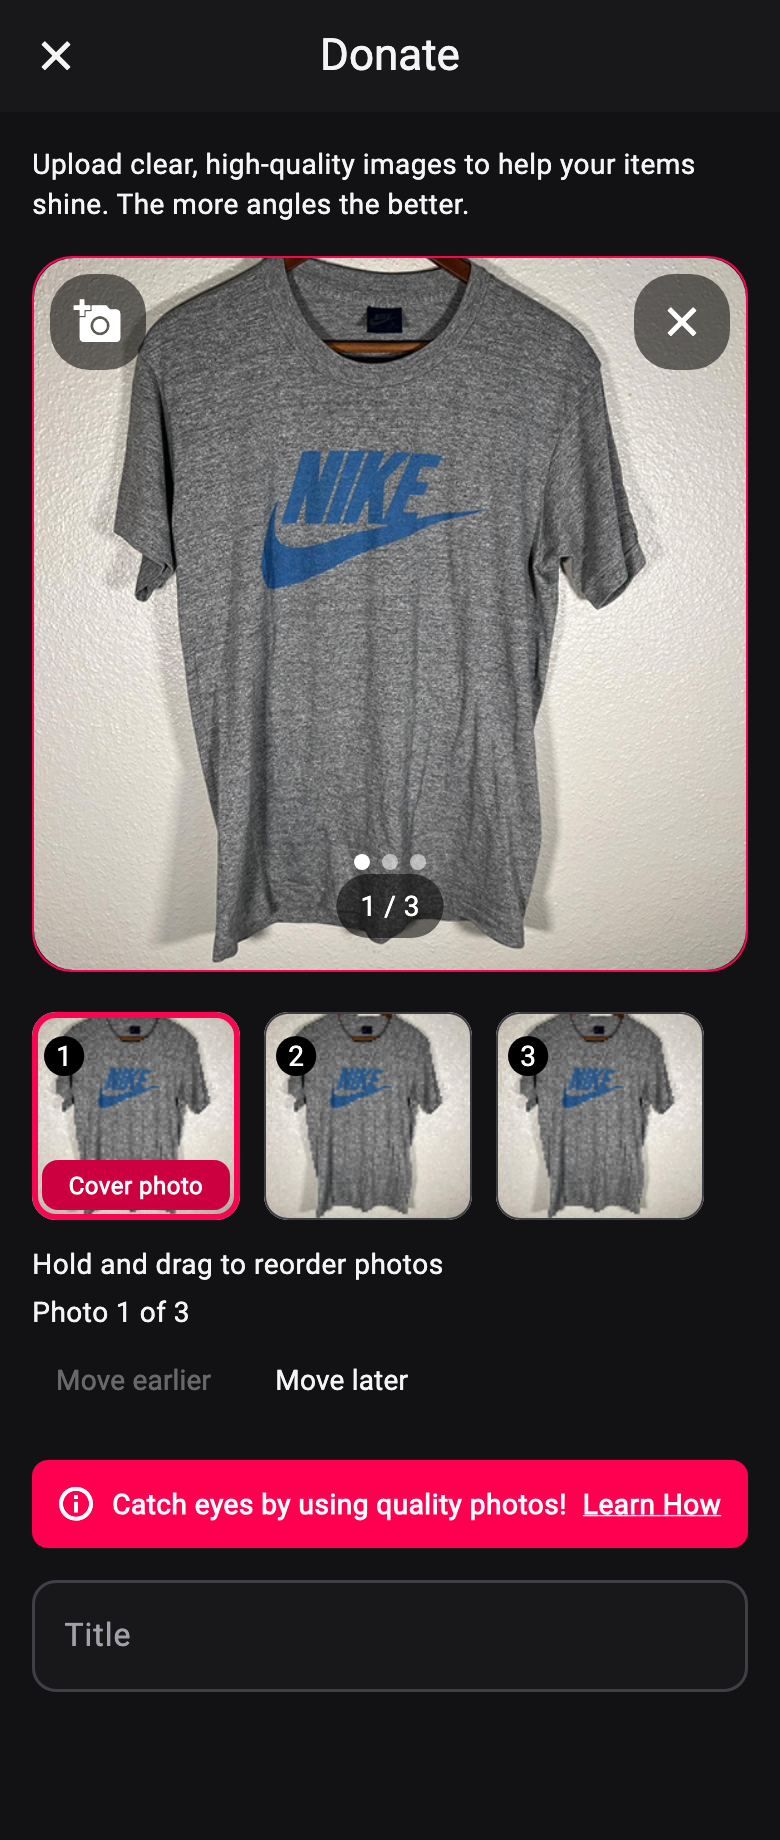
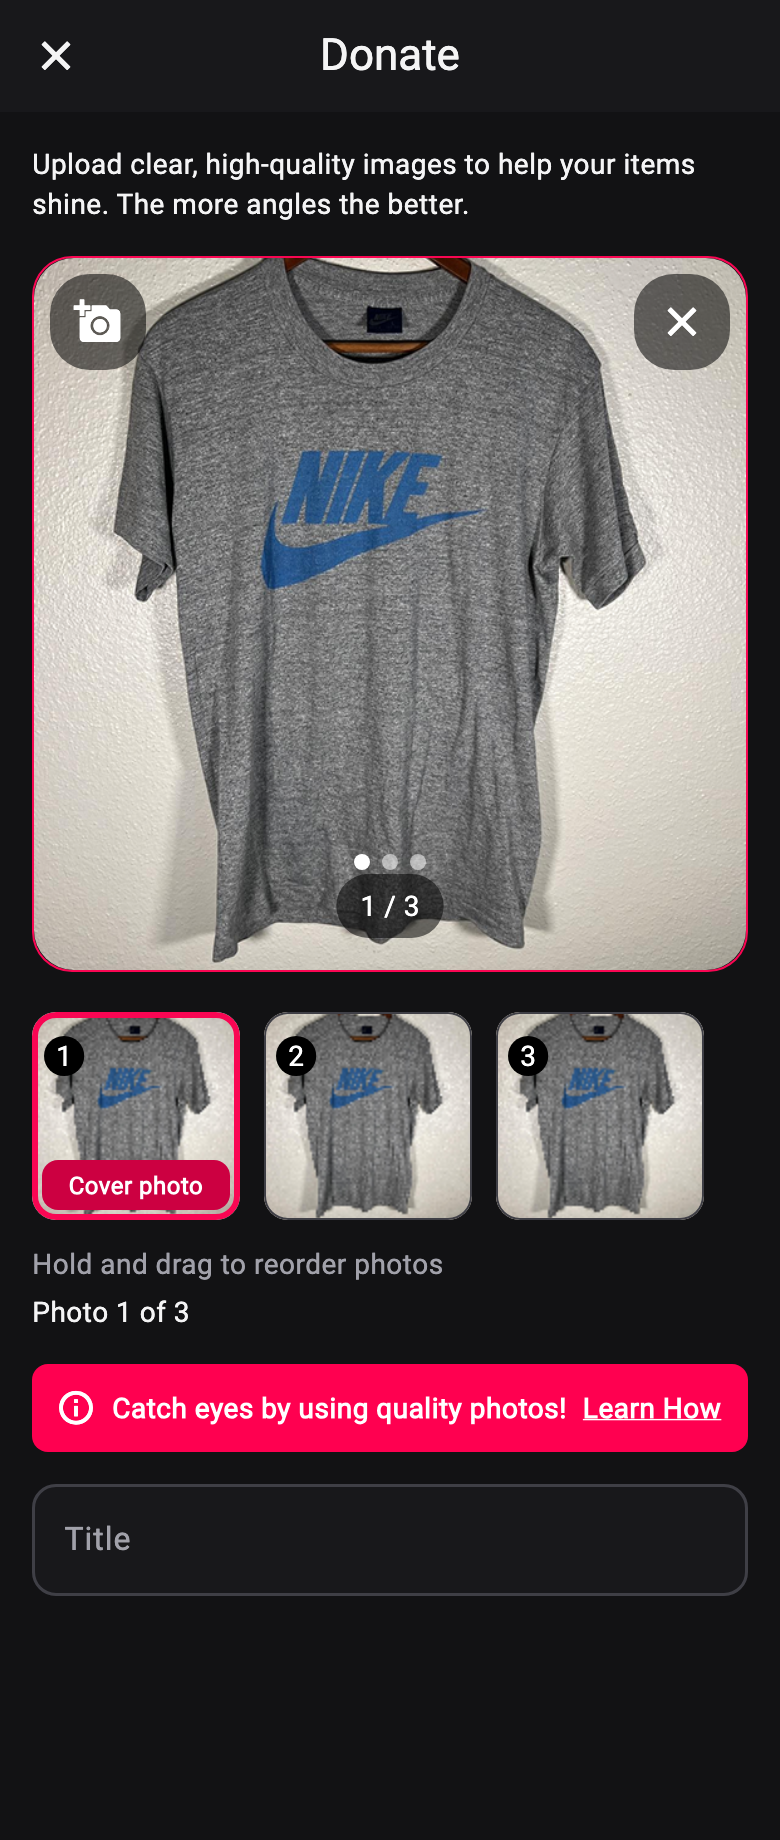
Remove visible photo movement buttons and mute the reorder hint
Simplify the Donate photo strip by removing Move earlier / Move later
buttons and using the theme's grey onSurfaceVariant colour for the hint.
Native screen-reader reorder actions remain available on each thumbnail.
Refresh the light/dark previews and QA notes for the final interface.

This is a UI-only follow-up with test and documentation changes. All 13
feature tests pass, including native semantics actions and AA text contrast.
Focused analysis, safe logging and diff checks pass. The full suite was not
rerun for this follow-up; physical device checks remain outstanding.

Changed region(s): [[0.0308, 0.7435, 0.9846, 0.8984], [0.0615, 0.6815, 0.3077, 0.7125], [0.3385, 0.6815, 0.5538, 0.7125]]

diff --git a/test/photo_upload_test.dart b/test/photo_upload_test.dart
@@ -1,12 +1,15 @@
 import 'dart:io';
 
 import 'package:cherry_mvp/core/config/app_strings.dart';
+import 'package:cherry_mvp/core/config/app_theme.dart';
 import 'package:cherry_mvp/features/donation/widgets/photo_reorder_strip.dart';
 import 'package:cherry_mvp/features/donation/widgets/photo_upload.dart';
 import 'package:flutter/material.dart';
 import 'package:flutter/services.dart';
 import 'package:flutter_test/flutter_test.dart';
 import 'package:image_picker/image_picker.dart';
+
+import 'support/photo_reorder_actions.dart';
 
 void main() {
   TestWidgetsFlutterBinding.ensureInitialized();
@@ -58,7 +61,7 @@ void main() {
     });
     await tester.pumpWidget(
       MaterialApp(
-        theme: ThemeData(brightness: brightness),
+        theme: buildTheme(brightness),
         builder: (context, child) => MediaQuery(
           data: MediaQuery.of(context).copyWith(textScaler: TextScaler.linear(textScale)),
           child: child!,
@@ -107,20 +110,21 @@ void main() {
     await tester.pumpAndSettle();
   }
 
-  testWidgets('tap previews, accessible controls reorder, and callback snapshots retain their order', (tester) async {
+  testWidgets('tap previews, screen-reader actions reorder, and callback snapshots retain their order', (tester) async {
     await pump(tester);
     expectPreview(tester, 0, 0);
-    expect(tester.widget<TextButton>(find.widgetWithText(TextButton, AppStrings.movePhotoEarlier)).onPressed, isNull);
+    expect(find.text('Move earlier'), findsNothing);
+    expect(find.text('Move later'), findsNothing);
     await tester.tap(thumbnail(2));
     await tester.pumpAndSettle();
     expectPreview(tester, 2, 2);
-    expect(tester.widget<TextButton>(find.widgetWithText(TextButton, AppStrings.movePhotoLater)).onPressed, isNull);
-    await tester.tap(find.text(AppStrings.movePhotoEarlier));
+
+    await moveSelectedPhoto(tester, earlier: true);
     await tester.pumpAndSettle();
     expect(paths(changes.last), paths([photos[0], photos[2], photos[1]]));
     expectPreview(tester, 2, 1);
     final firstChange = changes.single;
-    await tester.tap(find.text(AppStrings.movePhotoEarlier));
+    await moveSelectedPhoto(tester, earlier: true);
     await tester.pumpAndSettle();
     expect(paths(changes.last), paths([photos[2], photos[0], photos[1]]));
     expect(paths(firstChange), paths([photos[0], photos[2], photos[1]]));
@@ -144,7 +148,7 @@ void main() {
     await pump(tester);
     await tester.tap(thumbnail(2));
     await tester.pumpAndSettle();
-    await tester.tap(find.text(AppStrings.movePhotoEarlier));
+    await moveSelectedPhoto(tester, earlier: true);
     await tester.pumpAndSettle();
     TestDefaultBinaryMessengerBinding.instance.defaultBinaryMessenger.setMockMethodCallHandler(pickerChannel, (
       call,
@@ -183,7 +187,7 @@ void main() {
   testWidgets('moving beyond the visible row keeps the selected thumbnail in view', (tester) async {
     await pump(tester, initial: photos);
     for (var index = 0; index < photos.length - 1; index++) {
-      await tester.tap(find.text(AppStrings.movePhotoLater));
+      await moveSelectedPhoto(tester, earlier: false);
       await tester.pumpAndSettle();
     }
     expect(paths(changes.last), paths([...photos.skip(1), photos.first]));
@@ -202,8 +206,9 @@ void main() {
     await pump(tester, enabled: false);
     expect(tester.widget<IconButton>(find.widgetWithIcon(IconButton, Icons.close)).onPressed, isNull);
     expect(tester.widget<IconButton>(find.widgetWithIcon(IconButton, Icons.add_a_photo)).onPressed, isNull);
-    expect(tester.widget<TextButton>(find.widgetWithText(TextButton, AppStrings.movePhotoLater)).onPressed, isNull);
+
     await dragPhoto(tester, 2, const Offset(-220, 0));
+    await moveSelectedPhoto(tester, earlier: false);
     expect(changes, isEmpty);
     expect(tester.takeException(), isNull);
   });
@@ -233,7 +238,17 @@ void main() {
 
       await pump(tester, textScale: 2, brightness: brightness);
       expect(find.bySemanticsLabel('Photo 1 of 3, Cover photo'), findsOneWidget);
-      expect(find.bySemanticsLabel(AppStrings.movePhotoLater), findsOneWidget);
+      expect(find.text('Move earlier'), findsNothing);
+      expect(find.text('Move later'), findsNothing);
+      final hint = tester.widget<Text>(find.text(AppStrings.reorderPhotosHint));
+      final theme = Theme.of(tester.element(find.byType(PhotoReorderStrip)));
+      expect(hint.style!.color, theme.colorScheme.onSurfaceVariant);
+      final luminance = hint.style!.color!.computeLuminance();
+      final background = theme.scaffoldBackgroundColor.computeLuminance();
+      final contrast = brightness == Brightness.dark
+          ? (luminance + 0.05) / (background + 0.05)
+          : (background + 0.05) / (luminance + 0.05);
+      expect(contrast, greaterThanOrEqualTo(4.5));
       expect(tester.takeException(), isNull);
       semantics.dispose();
     });

diff --git a/test/donation_photo_submission_test.dart b/test/donation_photo_submission_test.dart
@@ -24,6 +24,8 @@ import 'package:flutter_test/flutter_test.dart';
 import 'package:image_picker/image_picker.dart';
 import 'package:provider/provider.dart';
 
+import 'support/photo_reorder_actions.dart';
+
 class _DonationRepository implements IDonationRepository {
   final response = Completer<Result<DonationResponse>>();
   final requests = <DonationRequest>[];
@@ -117,13 +119,6 @@ class _Harness {
 List<String> _formPaths(WidgetTester tester) =>
     tester.widget<DonationForm>(find.byType(DonationForm)).selectedImages!.map((image) => image.path).toList();
 
-Future<void> _move(WidgetTester tester, String label) async {
-  final button = find.widgetWithText(TextButton, label);
-  await tester.ensureVisible(button);
-  await tester.tap(button);
-  await tester.pumpAndSettle();
-}
-
 void main() {
   TestWidgetsFlutterBinding.ensureInitialized();
   late Directory photos;
@@ -161,9 +156,9 @@ void main() {
   ) async {
     final harness = _Harness();
     await harness.pump(tester, images);
-    await _move(tester, AppStrings.movePhotoLater);
-    await _move(tester, AppStrings.movePhotoLater);
-    await _move(tester, AppStrings.movePhotoEarlier);
+    await moveSelectedPhoto(tester, earlier: false);
+    await moveSelectedPhoto(tester, earlier: false);
+    await moveSelectedPhoto(tester, earlier: true);
     final chosenOrder = [images[1].path, images[0].path, images[2].path];
     expect(_formPaths(tester), chosenOrder);
 
@@ -173,9 +168,9 @@ void main() {
     final submitted = harness.repository.requests.single;
     expect(submitted.localImages!.map((image) => image.path), chosenOrder);
     expect(tester.widget<PhotoUpload>(find.byType(PhotoUpload)).enabled, isFalse);
-    for (final label in [AppStrings.movePhotoEarlier, AppStrings.movePhotoLater]) {
-      expect(tester.widget<TextButton>(find.widgetWithText(TextButton, label)).onPressed, isNull);
-    }
+    final strip = tester.widget<PhotoReorderStrip>(find.byType(PhotoReorderStrip));
+    strip.onReorder(1, 0);
+    expect(_formPaths(tester), chosenOrder);
 
     harness.repository.response.complete(Result.failure('Upload failed'));
     await tester.pumpAndSettle();
@@ -183,7 +178,7 @@ void main() {
 
     expect(tester.widget<PhotoUpload>(find.byType(PhotoUpload)).enabled, isTrue);
     expect(_formPaths(tester), chosenOrder);
-    await _move(tester, AppStrings.movePhotoLater);
+    await moveSelectedPhoto(tester, earlier: false);
     expect(_formPaths(tester), [images[1].path, images[2].path, images[0].path]);
     expect(submitted.localImages!.map((image) => image.path), chosenOrder);
     expect(tester.takeException(), isNull);

diff --git a/lib/features/donation/widgets/photo_reorder_strip.dart b/lib/features/donation/widgets/photo_reorder_strip.dart
@@ -74,8 +74,6 @@ class _PhotoReorderStripState extends State<PhotoReorderStrip> {
     final selectedBorder = Theme.of(context).brightness == Brightness.dark ? colours.primary : AppColors.primaryAction;
     // Leave room for the cover label when the user increases text size.
     final size = _thumbnailSize();
-    final canMoveEarlier = widget.enabled && widget.selectedIndex > 0;
-    final canMoveLater = widget.enabled && widget.selectedIndex < widget.images.length - 1;
 
     return Column(
       crossAxisAlignment: CrossAxisAlignment.start,
@@ -180,28 +178,14 @@ class _PhotoReorderStripState extends State<PhotoReorderStrip> {
         ),
         if (widget.images.length > 1) ...[
           const SizedBox(height: 8),
-          const Text(AppStrings.reorderPhotosHint),
+          Text(
+            AppStrings.reorderPhotosHint,
+            style: TextStyle(color: colours.onSurfaceVariant),
+          ),
           const SizedBox(height: 4),
           Semantics(
             liveRegion: true,
             child: Text(AppStrings.photoPosition(widget.selectedIndex + 1, widget.images.length)),
-          ),
-          Wrap(
-            spacing: 8,
-            children: [
-              TextButton(
-                onPressed: canMoveEarlier
-                    ? () => widget.onReorder(widget.selectedIndex, widget.selectedIndex - 1)
-                    : null,
-                style: TextButton.styleFrom(minimumSize: const Size(48, 48), foregroundColor: colours.onSurface),
-                child: const Text(AppStrings.movePhotoEarlier),
-              ),
-              TextButton(
-                onPressed: canMoveLater ? () => widget.onReorder(widget.selectedIndex, widget.selectedIndex + 1) : null,
-                style: TextButton.styleFrom(minimumSize: const Size(48, 48), foregroundColor: colours.onSurface),
-                child: const Text(AppStrings.movePhotoLater),
-              ),
-            ],
           ),
         ],
       ],

diff --git a/test/support/photo_reorder_actions.dart b/test/support/photo_reorder_actions.dart
@@ -1,0 +1,35 @@
+import 'package:cherry_mvp/core/config/app_strings.dart';
+import 'package:cherry_mvp/features/donation/widgets/photo_reorder_strip.dart';
+import 'package:flutter/material.dart';
+import 'package:flutter/semantics.dart';
+import 'package:flutter_test/flutter_test.dart';
+
+/// Exercise the list's native screen-reader actions through the semantics tree.
+Future<void> moveSelectedPhoto(WidgetTester tester, {required bool earlier}) async {
+  final stripFinder = find.byType(PhotoReorderStrip);
+  final strip = tester.widget<PhotoReorderStrip>(stripFinder);
+  final thumbnail = find.descendant(
+    of: stripFinder,
+    matching: find.byKey(ValueKey(strip.images[strip.selectedIndex].path)),
+  );
+  await tester.ensureVisible(thumbnail);
+  final semantics = tester.ensureSemantics();
+  try {
+    await tester.pumpAndSettle();
+    final localisations = WidgetsLocalizations.of(tester.element(stripFinder));
+    final action = CustomSemanticsAction(
+      label: earlier ? localisations.reorderItemLeft : localisations.reorderItemRight,
+    );
+    final label = AppStrings.photoPosition(strip.selectedIndex + 1, strip.images.length);
+    final thumbnailLabel = strip.selectedIndex == 0 ? '$label, ${AppStrings.coverPhoto}' : label;
+    final node = find.semantics.byPredicate((node) {
+      final data = node.getSemanticsData();
+      return data.label == thumbnailLabel && data.hasAction(SemanticsAction.customAction);
+    });
+    expect(node, findsOne);
+    tester.semantics.customAction(node, action);
+    await tester.pumpAndSettle();
+  } finally {
+    semantics.dispose();
+  }
+}

diff --git a/lib/core/config/app_strings.dart b/lib/core/config/app_strings.dart
@@ -166,8 +166,6 @@ class AppStrings {
   // Photo Upload
   static const coverPhoto = 'Cover photo';
   static const reorderPhotosHint = 'Hold and drag to reorder photos';
-  static const movePhotoEarlier = 'Move earlier';
-  static const movePhotoLater = 'Move later';
   static const previewPhotoHint = 'Tap to preview this photo';
   static const addMorePhotos = 'Add more photos';
   static const removePhoto = 'Remove photo';

diff --git a/docs/qa/donation-photo-order.md b/docs/qa/donation-photo-order.md
@@ -1,6 +1,6 @@
 # Donation photo ordering
 
-Donors can reorder local photos before submitting a new listing. Hold a thumbnail and drag it along the row, or select it and use **Move earlier** / **Move later**. The first photo is labelled **Cover photo**. Tapping a thumbnail changes the large preview; swiping the large preview still only changes the viewed photo.
+Donors can reorder local photos before submitting a new listing. Hold a thumbnail and drag it along the row. The instruction is shown in readable grey, without visible movement buttons. Screen-reader users can use the thumbnail's native reorder actions. The first photo is labelled **Cover photo**. Tapping a thumbnail changes the large preview; swiping the large preview still only changes the viewed photo.
 
 The demonstration arrow from the design discussion is not part of the interface. Reordering is opt-in on the Donate screen. The existing listing editor retains its current photo controls.
 
@@ -25,9 +25,9 @@ flutter analyze --no-pub
 bash tool/check_safe_logging.sh
 ```
 
-The 13 new tests cover drag moves in both directions, tap preview, accessible movement controls and boundaries, cover changes, adding/removing/clearing, duplicate picker paths, parent synchronisation, longer rows, doubled text size in light/dark themes, submission locking, failure recovery and asynchronous upload ordering.
+The 13 new tests cover drag moves in both directions, tap preview, screen-reader reordering, cover changes, adding/removing/clearing, duplicate picker paths, parent synchronisation, longer rows, doubled text size and hint contrast in light/dark themes, submission locking, failure recovery and asynchronous upload ordering.
 
-The full suite has 409 passing tests and 18 failures. All 18 failures reproduce on untouched `af876c5` with the same SDK: one Create Account password visibility test and 17 product/profile tests. The baseline has 396 passing tests. Full analysis has the same 19 pre-existing findings as the baseline; analysis of the changed Dart files has no findings. The safe logging guard and diff whitespace checks pass.
+The full-suite check at `dbae26f` had 409 passing tests and 18 failures. The button-removal and hint-colour follow-up was checked with the 13 feature tests and focused analysis; the full suite was not rerun for that UI change. All 18 failures reproduce on untouched `af876c5` with the same SDK: one Create Account password visibility test and 17 product/profile tests. The baseline has 396 passing tests. Full analysis has the same 19 pre-existing findings as the baseline; analysis of the changed Dart files has no findings. The safe logging guard and diff whitespace checks pass.
 
 ## Implementation previews
 
@@ -44,7 +44,7 @@ These checks have not been performed on physical devices or the deployed backend
 - [ ] On iOS and Android, add distinct gallery and camera photos. Drag the last photo to the first position and back. Check that ordinary swiping still only changes the preview.
 - [ ] Try enough photos to exceed the visible row. Hold near an edge to scroll while dragging. Verify the desired cover, counter and preview after each move.
 - [ ] Add and remove photos after reordering, including removing the first and final photo. Cancel the picker and return to the form.
-- [ ] Use VoiceOver/TalkBack to select thumbnails and move them using the labelled buttons. Confirm position announcements, focus, disabled boundary actions, larger text and light/dark contrast.
+- [ ] Use VoiceOver/TalkBack to select thumbnails and move them using their native reorder actions (left/right or start/end). Confirm position announcements, focus, available boundary actions and the submission lock, larger text and light/dark contrast.
 - [ ] Submit on staging. Confirm controls cannot change the photo set during upload. Reopen the listing and check its cover and full gallery order against the submitted selection.
 - [ ] Simulate an upload failure. Confirm the order and form values remain available for retry.
 - [ ] Smoke-test Edit listing > Add photos to confirm it keeps the existing editor flow and does not show the new Donate cover badge.
